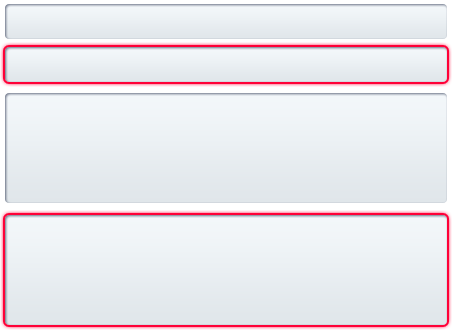
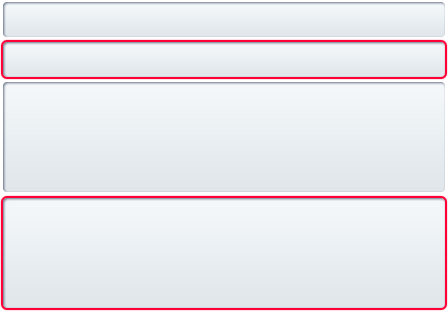
Javascript based contact form validation. Also improved error highlight and focus ring look.

Changed region(s): [[0.0, 0.0, 1.0, 1.0]]

diff --git a/wireload.net/source/js/jquery.validate.min.js b/wireload.net/source/js/jquery.validate.min.js
@@ -1,0 +1,2 @@
+/*! jQuery Validation Plugin - v1.11.1 - 3/22/2013\n* https://github.com/jzaefferer/jquery-validation
+* Copyright (c) 2013 Jörn Zaefferer; Licensed MIT */(function(t){t.extend(t.fn,{validate:function(e){if(!this.length)return e&&e.debug&&window.console&&console.warn("Nothing selected, can't validate, returning nothing."),void 0;var i=t.data(this[0],"validator");return i?i:(this.attr("novalidate","novalidate"),i=new t.validator(e,this[0]),t.data(this[0],"validator",i),i.settings.onsubmit&&(this.validateDelegate(":submit","click",function(e){i.settings.submitHandler&&(i.submitButton=e.target),t(e.target).hasClass("cancel")&&(i.cancelSubmit=!0),void 0!==t(e.target).attr("formnovalidate")&&(i.cancelSubmit=!0)}),this.submit(function(e){function s(){var s;return i.settings.submitHandler?(i.submitButton&&(s=t("<input type='hidden'/>").attr("name",i.submitButton.name).val(t(i.submitButton).val()).appendTo(i.currentForm)),i.settings.submitHandler.call(i,i.currentForm,e),i.submitButton&&s.remove(),!1):!0}return i.settings.debug&&e.preventDefault(),i.cancelSubmit?(i.cancelSubmit=!1,s()):i.form()?i.pendingRequest?(i.formSubmitted=!0,!1):s():(i.focusInvalid(),!1)})),i)},valid:function(){if(t(this[0]).is("form"))return this.validate().form();var e=!0,i=t(this[0].form).validate();return this.each(function(){e=e&&i.element(this)}),e},removeAttrs:function(e){var i={},s=this;return t.each(e.split(/\s/),function(t,e){i[e]=s.attr(e),s.removeAttr(e)}),i},rules:function(e,i){var s=this[0];if(e){var r=t.data(s.form,"validator").settings,n=r.rules,a=t.validator.staticRules(s);switch(e){case"add":t.extend(a,t.validator.normalizeRule(i)),delete a.messages,n[s.name]=a,i.messages&&(r.messages[s.name]=t.extend(r.messages[s.name],i.messages));break;case"remove":if(!i)return delete n[s.name],a;var u={};return t.each(i.split(/\s/),function(t,e){u[e]=a[e],delete a[e]}),u}}var o=t.validator.normalizeRules(t.extend({},t.validator.classRules(s),t.validator.attributeRules(s),t.validator.dataRules(s),t.validator.staticRules(s)),s);if(o.required){var l=o.required;delete o.required,o=t.extend({required:l},o)}return o}}),t.extend(t.expr[":"],{blank:function(e){return!t.trim(""+t(e).val())},filled:function(e){return!!t.trim(""+t(e).val())},unchecked:function(e){return!t(e).prop("checked")}}),t.validator=function(e,i){this.settings=t.extend(!0,{},t.validator.defaults,e),this.currentForm=i,this.init()},t.validator.format=function(e,i){return 1===arguments.length?function(){var i=t.makeArray(arguments);return i.unshift(e),t.validator.format.apply(this,i)}:(arguments.length>2&&i.constructor!==Array&&(i=t.makeArray(arguments).slice(1)),i.constructor!==Array&&(i=[i]),t.each(i,function(t,i){e=e.replace(RegExp("\\{"+t+"\\}","g"),function(){return i})}),e)},t.extend(t.validator,{defaults:{messages:{},groups:{},rules:{},errorClass:"error",validClass:"valid",errorElement:"label",focusInvalid:!0,errorContainer:t([]),errorLabelContainer:t([]),onsubmit:!0,ignore:":hidden",ignoreTitle:!1,onfocusin:function(t){this.lastActive=t,this.settings.focusCleanup&&!this.blockFocusCleanup&&(this.settings.unhighlight&&this.settings.unhighlight.call(this,t,this.settings.errorClass,this.settings.validClass),this.addWrapper(this.errorsFor(t)).hide())},onfocusout:function(t){this.checkable(t)||!(t.name in this.submitted)&&this.optional(t)||this.element(t)},onkeyup:function(t,e){(9!==e.which||""!==this.elementValue(t))&&(t.name in this.submitted||t===this.lastElement)&&this.element(t)},onclick:function(t){t.name in this.submitted?this.element(t):t.parentNode.name in this.submitted&&this.element(t.parentNode)},highlight:function(e,i,s){"radio"===e.type?this.findByName(e.name).addClass(i).removeClass(s):t(e).addClass(i).removeClass(s)},unhighlight:function(e,i,s){"radio"===e.type?this.findByName(e.name).removeClass(i).addClass(s):t(e).removeClass(i).addClass(s)}},setDefaults:function(e){t.extend(t.validator.defaults,e)},messages:{required:"This field is required.",remote:"Please fix this field.",email:"Please enter a valid email address.",url:"Please enter a valid URL.",date:"Please enter a valid date.",dateISO:"Please enter a valid date (ISO).",number:"Please enter a valid number.",digits:"Please enter only digits.",creditcard:"Please enter a valid credit card number.",equalTo:"Please enter the same value again.",maxlength:t.validator.format("Please enter no more than {0} characters."),minlength:t.validator.format("Please enter at least {0} characters."),rangelength:t.validator.format("Please enter a value between {0} and {1} characters long."),range:t.validator.format("Please enter a value between {0} and {1}."),max:t.validator.format("Please enter a value less than or equal to {0}."),min:t.validator.format("Please enter a value greater than or equal to {0}.")},autoCreateRanges:!1,prototype:{init:function(){function e(e){var i=t.data(this[0].form,"validator"),s="on"+e.type.replace(/^validate/,"");i.settings[s]&&i.settings[s].call(i,this[0],e)}this.labelContainer=t(this.settings.errorLabelContainer),this.errorContext=this.labelContainer.length&&this.labelContainer||t(this.currentForm),this.containers=t(this.settings.errorContainer).add(this.settings.errorLabelContainer),this.submitted={},this.valueCache={},this.pendingRequest=0,this.pending={},this.invalid={},this.reset();var i=this.groups={};t.each(this.settings.groups,function(e,s){"string"==typeof s&&(s=s.split(/\s/)),t.each(s,function(t,s){i[s]=e})});var s=this.settings.rules;t.each(s,function(e,i){s[e]=t.validator.normalizeRule(i)}),t(this.currentForm).validateDelegate(":text, [type='password'], [type='file'], select, textarea, [type='number'], [type='search'] ,[type='tel'], [type='url'], [type='email'], [type='datetime'], [type='date'], [type='month'], [type='week'], [type='time'], [type='datetime-local'], [type='range'], [type='color'] ","focusin focusout keyup",e).validateDelegate("[type='radio'], [type='checkbox'], select, option","click",e),this.settings.invalidHandler&&t(this.currentForm).bind("invalid-form.validate",this.settings.invalidHandler)},form:function(){return this.checkForm(),t.extend(this.submitted,this.errorMap),this.invalid=t.extend({},this.errorMap),this.valid()||t(this.currentForm).triggerHandler("invalid-form",[this]),this.showErrors(),this.valid()},checkForm:function(){this.prepareForm();for(var t=0,e=this.currentElements=this.elements();e[t];t++)this.check(e[t]);return this.valid()},element:function(e){e=this.validationTargetFor(this.clean(e)),this.lastElement=e,this.prepareElement(e),this.currentElements=t(e);var i=this.check(e)!==!1;return i?delete this.invalid[e.name]:this.invalid[e.name]=!0,this.numberOfInvalids()||(this.toHide=this.toHide.add(this.containers)),this.showErrors(),i},showErrors:function(e){if(e){t.extend(this.errorMap,e),this.errorList=[];for(var i in e)this.errorList.push({message:e[i],element:this.findByName(i)[0]});this.successList=t.grep(this.successList,function(t){return!(t.name in e)})}this.settings.showErrors?this.settings.showErrors.call(this,this.errorMap,this.errorList):this.defaultShowErrors()},resetForm:function(){t.fn.resetForm&&t(this.currentForm).resetForm(),this.submitted={},this.lastElement=null,this.prepareForm(),this.hideErrors(),this.elements().removeClass(this.settings.errorClass).removeData("previousValue")},numberOfInvalids:function(){return this.objectLength(this.invalid)},objectLength:function(t){var e=0;for(var i in t)e++;return e},hideErrors:function(){this.addWrapper(this.toHide).hide()},valid:function(){return 0===this.size()},size:function(){return this.errorList.length},focusInvalid:function(){if(this.settings.focusInvalid)try{t(this.findLastActive()||this.errorList.length&&this.errorList[0].element||[]).filter(":visible").focus().trigger("focusin")}catch(e){}},findLastActive:function(){var e=this.lastActive;return e&&1===t.grep(this.errorList,function(t){return t.element.name===e.name}).length&&e},elements:function(){var e=this,i={};return t(this.currentForm).find("input, select, textarea").not(":submit, :reset, :image, [disabled]").not(this.settings.ignore).filter(function(){return!this.name&&e.settings.debug&&window.console&&console.error("%o has no name assigned",this),this.name in i||!e.objectLength(t(this).rules())?!1:(i[this.name]=!0,!0)})},clean:function(e){return t(e)[0]},errors:function(){var e=this.settings.errorClass.replace(" ",".");return t(this.settings.errorElement+"."+e,this.errorContext)},reset:function(){this.successList=[],this.errorList=[],this.errorMap={},this.toShow=t([]),this.toHide=t([]),this.currentElements=t([])},prepareForm:function(){this.reset(),this.toHide=this.errors().add(this.containers)},prepareElement:function(t){this.reset(),this.toHide=this.errorsFor(t)},elementValue:function(e){var i=t(e).attr("type"),s=t(e).val();return"radio"===i||"checkbox"===i?t("input[name='"+t(e).attr("name")+"']:checked").val():"string"==typeof s?s.replace(/\r/g,""):s},check:function(e){e=this.validationTargetFor(this.clean(e));var i,s=t(e).rules(),r=!1,n=this.elementValue(e);for(var a in s){var u={method:a,parameters:s[a]};try{if(i=t.validator.methods[a].call(this,n,e,u.parameters),"dependency-mismatch"===i){r=!0;continue}if(r=!1,"pending"===i)return this.toHide=this.toHide.not(this.errorsFor(e)),void 0;if(!i)return this.formatAndAdd(e,u),!1}catch(o){throw this.settings.debug&&window.console&&console.log("Exception occurred when checking element "+e.id+", check the '"+u.method+"' method.",o),o}}return r?void 0:(this.objectLength(s)&&this.successList.push(e),!0)},customDataMessage:function(e,i){return t(e).data("msg-"+i.toLowerCase())||e.attributes&&t(e).attr("data-msg-"+i.toLowerCase())},customMessage:function(t,e){var i=this.settings.messages[t];return i&&(i.constructor===String?i:i[e])},findDefined:function(){for(var t=0;arguments.length>t;t++)if(void 0!==arguments[t])return arguments[t];return void 0},defaultMessage:function(e,i){return this.findDefined(this.customMessage(e.name,i),this.customDataMessage(e,i),!this.settings.ignoreTitle&&e.title||void 0,t.validator.messages[i],"<strong>Warning: No message defined for "+e.name+"</strong>")},formatAndAdd:function(e,i){var s=this.defaultMessage(e,i.method),r=/\$?\{(\d+)\}/g;"function"==typeof s?s=s.call(this,i.parameters,e):r.test(s)&&(s=t.validator.format(s.replace(r,"{$1}"),i.parameters)),this.errorList.push({message:s,element:e}),this.errorMap[e.name]=s,this.submitted[e.name]=s},addWrapper:function(t){return this.settings.wrapper&&(t=t.add(t.parent(this.settings.wrapper))),t},defaultShowErrors:function(){var t,e;for(t=0;this.errorList[t];t++){var i=this.errorList[t];this.settings.highlight&&this.settings.highlight.call(this,i.element,this.settings.errorClass,this.settings.validClass),this.showLabel(i.element,i.message)}if(this.errorList.length&&(this.toShow=this.toShow.add(this.containers)),this.settings.success)for(t=0;this.successList[t];t++)this.showLabel(this.successList[t]);if(this.settings.unhighlight)for(t=0,e=this.validElements();e[t];t++)this.settings.unhighlight.call(this,e[t],this.settings.errorClass,this.settings.validClass);this.toHide=this.toHide.not(this.toShow),this.hideErrors(),this.addWrapper(this.toShow).show()},validElements:function(){return this.currentElements.not(this.invalidElements())},invalidElements:function(){return t(this.errorList).map(function(){return this.element})},showLabel:function(e,i){var s=this.errorsFor(e);s.length?(s.removeClass(this.settings.validClass).addClass(this.settings.errorClass),s.html(i)):(s=t("<"+this.settings.errorElement+">").attr("for",this.idOrName(e)).addClass(this.settings.errorClass).html(i||""),this.settings.wrapper&&(s=s.hide().show().wrap("<"+this.settings.wrapper+"/>").parent()),this.labelContainer.append(s).length||(this.settings.errorPlacement?this.settings.errorPlacement(s,t(e)):s.insertAfter(e))),!i&&this.settings.success&&(s.text(""),"string"==typeof this.settings.success?s.addClass(this.settings.success):this.settings.success(s,e)),this.toShow=this.toShow.add(s)},errorsFor:function(e){var i=this.idOrName(e);return this.errors().filter(function(){return t(this).attr("for")===i})},idOrName:function(t){return this.groups[t.name]||(this.checkable(t)?t.name:t.id||t.name)},validationTargetFor:function(t){return this.checkable(t)&&(t=this.findByName(t.name).not(this.settings.ignore)[0]),t},checkable:function(t){return/radio|checkbox/i.test(t.type)},findByName:function(e){return t(this.currentForm).find("[name='"+e+"']")},getLength:function(e,i){switch(i.nodeName.toLowerCase()){case"select":return t("option:selected",i).length;case"input":if(this.checkable(i))return this.findByName(i.name).filter(":checked").length}return e.length},depend:function(t,e){return this.dependTypes[typeof t]?this.dependTypes[typeof t](t,e):!0},dependTypes:{"boolean":function(t){return t},string:function(e,i){return!!t(e,i.form).length},"function":function(t,e){return t(e)}},optional:function(e){var i=this.elementValue(e);return!t.validator.methods.required.call(this,i,e)&&"dependency-mismatch"},startRequest:function(t){this.pending[t.name]||(this.pendingRequest++,this.pending[t.name]=!0)},stopRequest:function(e,i){this.pendingRequest--,0>this.pendingRequest&&(this.pendingRequest=0),delete this.pending[e.name],i&&0===this.pendingRequest&&this.formSubmitted&&this.form()?(t(this.currentForm).submit(),this.formSubmitted=!1):!i&&0===this.pendingRequest&&this.formSubmitted&&(t(this.currentForm).triggerHandler("invalid-form",[this]),this.formSubmitted=!1)},previousValue:function(e){return t.data(e,"previousValue")||t.data(e,"previousValue",{old:null,valid:!0,message:this.defaultMessage(e,"remote")})}},classRuleSettings:{required:{required:!0},email:{email:!0},url:{url:!0},date:{date:!0},dateISO:{dateISO:!0},number:{number:!0},digits:{digits:!0},creditcard:{creditcard:!0}},addClassRules:function(e,i){e.constructor===String?this.classRuleSettings[e]=i:t.extend(this.classRuleSettings,e)},classRules:function(e){var i={},s=t(e).attr("class");return s&&t.each(s.split(" "),function(){this in t.validator.classRuleSettings&&t.extend(i,t.validator.classRuleSettings[this])}),i},attributeRules:function(e){var i={},s=t(e),r=s[0].getAttribute("type");for(var n in t.validator.methods){var a;"required"===n?(a=s.get(0).getAttribute(n),""===a&&(a=!0),a=!!a):a=s.attr(n),/min|max/.test(n)&&(null===r||/number|range|text/.test(r))&&(a=Number(a)),a?i[n]=a:r===n&&"range"!==r&&(i[n]=!0)}return i.maxlength&&/-1|2147483647|524288/.test(i.maxlength)&&delete i.maxlength,i},dataRules:function(e){var i,s,r={},n=t(e);for(i in t.validator.methods)s=n.data("rule-"+i.toLowerCase()),void 0!==s&&(r[i]=s);return r},staticRules:function(e){var i={},s=t.data(e.form,"validator");return s.settings.rules&&(i=t.validator.normalizeRule(s.settings.rules[e.name])||{}),i},normalizeRules:function(e,i){return t.each(e,function(s,r){if(r===!1)return delete e[s],void 0;if(r.param||r.depends){var n=!0;switch(typeof r.depends){case"string":n=!!t(r.depends,i.form).length;break;case"function":n=r.depends.call(i,i)}n?e[s]=void 0!==r.param?r.param:!0:delete e[s]}}),t.each(e,function(s,r){e[s]=t.isFunction(r)?r(i):r}),t.each(["minlength","maxlength"],function(){e[this]&&(e[this]=Number(e[this]))}),t.each(["rangelength","range"],function(){var i;e[this]&&(t.isArray(e[this])?e[this]=[Number(e[this][0]),Number(e[this][1])]:"string"==typeof e[this]&&(i=e[this].split(/[\s,]+/),e[this]=[Number(i[0]),Number(i[1])]))}),t.validator.autoCreateRanges&&(e.min&&e.max&&(e.range=[e.min,e.max],delete e.min,delete e.max),e.minlength&&e.maxlength&&(e.rangelength=[e.minlength,e.maxlength],delete e.minlength,delete e.maxlength)),e},normalizeRule:function(e){if("string"==typeof e){var i={};t.each(e.split(/\s/),function(){i[this]=!0}),e=i}return e},addMethod:function(e,i,s){t.validator.methods[e]=i,t.validator.messages[e]=void 0!==s?s:t.validator.messages[e],3>i.length&&t.validator.addClassRules(e,t.validator.normalizeRule(e))},methods:{required:function(e,i,s){if(!this.depend(s,i))return"dependency-mismatch";if("select"===i.nodeName.toLowerCase()){var r=t(i).val();return r&&r.length>0}return this.checkable(i)?this.getLength(e,i)>0:t.trim(e).length>0},email:function(t,e){return this.optional(e)||/^((([a-z]|\d|[!#\$%&'\*\+\-\/=\?\^_`{\|}~]|[\u00A0-\uD7FF\uF900-\uFDCF\uFDF0-\uFFEF])+(\.([a-z]|\d|[!#\$%&'\*\+\-\/=\?\^_`{\|}~]|[\u00A0-\uD7FF\uF900-\uFDCF\uFDF0-\uFFEF])+)*)|((\x22)((((\x20|\x09)*(\x0d\x0a))?(\x20|\x09)+)?(([\x01-\x08\x0b\x0c\x0e-\x1f\x7f]|\x21|[\x23-\x5b]|[\x5d-\x7e]|[\u00A0-\uD7FF\uF900-\uFDCF\uFDF0-\uFFEF])|(\\([\x01-\x09\x0b\x0c\x0d-\x7f]|[\u00A0-\uD7FF\uF900-\uFDCF\uFDF0-\uFFEF]))))*(((\x20|\x09)*(\x0d\x0a))?(\x20|\x09)+)?(\x22)))@((([a-z]|\d|[\u00A0-\uD7FF\uF900-\uFDCF\uFDF0-\uFFEF])|(([a-z]|\d|[\u00A0-\uD7FF\uF900-\uFDCF\uFDF0-\uFFEF])([a-z]|\d|-|\.|_|~|[\u00A0-\uD7FF\uF900-\uFDCF\uFDF0-\uFFEF])*([a-z]|\d|[\u00A0-\uD7FF\uF900-\uFDCF\uFDF0-\uFFEF])))\.)+(([a-z]|[\u00A0-\uD7FF\uF900-\uFDCF\uFDF0-\uFFEF])|(([a-z]|[\u00A0-\uD7FF\uF900-\uFDCF\uFDF0-\uFFEF])([a-z]|\d|-|\.|_|~|[\u00A0-\uD7FF\uF900-\uFDCF\uFDF0-\uFFEF])*([a-z]|[\u00A0-\uD7FF\uF900-\uFDCF\uFDF0-\uFFEF])))$/i.test(t)},url:function(t,e){return this.optional(e)||/^(https?|s?ftp):\/\/(((([a-z]|\d|-|\.|_|~|[\u00A0-\uD7FF\uF900-\uFDCF\uFDF0-\uFFEF])|(%[\da-f]{2})|[!\$&'\(\)\*\+,;=]|:)*@)?(((\d|[1-9]\d|1\d\d|2[0-4]\d|25[0-5])\.(\d|[1-9]\d|1\d\d|2[0-4]\d|25[0-5])\.(\d|[1-9]\d|1\d\d|2[0-4]\d|25[0-5])\.(\d|[1-9]\d|1\d\d|2[0-4]\d|25[0-5]))|((([a-z]|\d|[\u00A0-\uD7FF\uF900-\uFDCF\uFDF0-\uFFEF])|(([a-z]|\d|[\u00A0-\uD7FF\uF900-\uFDCF\uFDF0-\uFFEF])([a-z]|\d|-|\.|_|~|[\u00A0-\uD7FF\uF900-\uFDCF\uFDF0-\uFFEF])*([a-z]|\d|[\u00A0-\uD7FF\uF900-\uFDCF\uFDF0-\uFFEF])))\.)+(([a-z]|[\u00A0-\uD7FF\uF900-\uFDCF\uFDF0-\uFFEF])|(([a-z]|[\u00A0-\uD7FF\uF900-\uFDCF\uFDF0-\uFFEF])([a-z]|\d|-|\.|_|~|[\u00A0-\uD7FF\uF900-\uFDCF\uFDF0-\uFFEF])*([a-z]|[\u00A0-\uD7FF\uF900-\uFDCF\uFDF0-\uFFEF])))\.?)(:\d*)?)(\/((([a-z]|\d|-|\.|_|~|[\u00A0-\uD7FF\uF900-\uFDCF\uFDF0-\uFFEF])|(%[\da-f]{2})|[!\$&'\(\)\*\+,;=]|:|@)+(\/(([a-z]|\d|-|\.|_|~|[\u00A0-\uD7FF\uF900-\uFDCF\uFDF0-\uFFEF])|(%[\da-f]{2})|[!\$&'\(\)\*\+,;=]|:|@)*)*)?)?(\?((([a-z]|\d|-|\.|_|~|[\u00A0-\uD7FF\uF900-\uFDCF\uFDF0-\uFFEF])|(%[\da-f]{2})|[!\$&'\(\)\*\+,;=]|:|@)|[\uE000-\uF8FF]|\/|\?)*)?(#((([a-z]|\d|-|\.|_|~|[\u00A0-\uD7FF\uF900-\uFDCF\uFDF0-\uFFEF])|(%[\da-f]{2})|[!\$&'\(\)\*\+,;=]|:|@)|\/|\?)*)?$/i.test(t)},date:function(t,e){return this.optional(e)||!/Invalid|NaN/.test(""+new Date(t))},dateISO:function(t,e){return this.optional(e)||/^\d{4}[\/\-]\d{1,2}[\/\-]\d{1,2}$/.test(t)},number:function(t,e){return this.optional(e)||/^-?(?:\d+|\d{1,3}(?:,\d{3})+)?(?:\.\d+)?$/.test(t)},digits:function(t,e){return this.optional(e)||/^\d+$/.test(t)},creditcard:function(t,e){if(this.optional(e))return"dependency-mismatch";if(/[^0-9 \-]+/.test(t))return!1;var i=0,s=0,r=!1;t=t.replace(/\D/g,"");for(var n=t.length-1;n>=0;n--){var a=t.charAt(n);s=parseInt(a,10),r&&(s*=2)>9&&(s-=9),i+=s,r=!r}return 0===i%10},minlength:function(e,i,s){var r=t.isArray(e)?e.length:this.getLength(t.trim(e),i);return this.optional(i)||r>=s},maxlength:function(e,i,s){var r=t.isArray(e)?e.length:this.getLength(t.trim(e),i);return this.optional(i)||s>=r},rangelength:function(e,i,s){var r=t.isArray(e)?e.length:this.getLength(t.trim(e),i);return this.optional(i)||r>=s[0]&&s[1]>=r},min:function(t,e,i){return this.optional(e)||t>=i},max:function(t,e,i){return this.optional(e)||i>=t},range:function(t,e,i){return this.optional(e)||t>=i[0]&&i[1]>=t},equalTo:function(e,i,s){var r=t(s);return this.settings.onfocusout&&r.unbind(".validate-equalTo").bind("blur.validate-equalTo",function(){t(i).valid()}),e===r.val()},remote:function(e,i,s){if(this.optional(i))return"dependency-mismatch";var r=this.previousValue(i);if(this.settings.messages[i.name]||(this.settings.messages[i.name]={}),r.originalMessage=this.settings.messages[i.name].remote,this.settings.messages[i.name].remote=r.message,s="string"==typeof s&&{url:s}||s,r.old===e)return r.valid;r.old=e;var n=this;this.startRequest(i);var a={};return a[i.name]=e,t.ajax(t.extend(!0,{url:s,mode:"abort",port:"validate"+i.name,dataType:"json",data:a,success:function(s){n.settings.messages[i.name].remote=r.originalMessage;var a=s===!0||"true"===s;if(a){var u=n.formSubmitted;n.prepareElement(i),n.formSubmitted=u,n.successList.push(i),delete n.invalid[i.name],n.showErrors()}else{var o={},l=s||n.defaultMessage(i,"remote");o[i.name]=r.message=t.isFunction(l)?l(e):l,n.invalid[i.name]=!0,n.showErrors(o)}r.valid=a,n.stopRequest(i,a)}},s)),"pending"}}}),t.format=t.validator.format})(jQuery),function(t){var e={};if(t.ajaxPrefilter)t.ajaxPrefilter(function(t,i,s){var r=t.port;"abort"===t.mode&&(e[r]&&e[r].abort(),e[r]=s)});else{var i=t.ajax;t.ajax=function(s){var r=("mode"in s?s:t.ajaxSettings).mode,n=("port"in s?s:t.ajaxSettings).port;return"abort"===r?(e[n]&&e[n].abort(),e[n]=i.apply(this,arguments),e[n]):i.apply(this,arguments)}}}(jQuery),function(t){t.extend(t.fn,{validateDelegate:function(e,i,s){return this.bind(i,function(i){var r=t(i.target);return r.is(e)?s.apply(r,arguments):void 0})}})}(jQuery);

diff --git a/wireload.net/source/stylesheets/main.scss b/wireload.net/source/stylesheets/main.scss
@@ -968,130 +968,146 @@ body.folder-products-quiet {
 	background: url(../images/send_form.png) no-repeat;
 	margin-top: 25px;
 	position: relative;
-}
-#contact-form div {
-	width: 452px;
-	float: left;
-	margin: 12px 0px 0px 37px;
-}
-#contact-form label {
-	font-size: 13px;
-	color: #39425c;
-	font-weight: bold;
-	margin-left: 10px;
-}
-#contact-form .inp {
-	width: 452px;
-	height: 45px;
-	background: url(../images/inpts.png) no-repeat left 2px;
-	float: left;
-	margin-top: 0px;
-}
-#contact-form .inp.error {
-	background-position: 0px -41px;
-}
-#contact-form .inp input {
-	width: 430px;
-	margin: 14px 0px 0px 12px;
-	border: 0px;
-	background: none;
-	font: 15px Arial, Helvetica, sans-serif;
-}
-#contact-form .txt {
-	width: 452px;
-	height: 120px;
-	background: url(../images/inpts.png) no-repeat left -90px;
-	float: left;
-	margin-top: 5px;
-	padding: 0px;
-}
-#contact-form .txt.error {
-	background-position: left bottom;
-}
-#contact-form .txt textarea {
-	width: 430px;
-	height: 100px;
-	border: 0px;
-	background: none;
-	margin: 9px 0px 0px 12px;
-	padding: 0px;
-	font: 15px Arial, Helvetica, sans-serif;
-}
+    font-size: 15px;
 
-#contact-form
-{
-  #send-but {
-  	width: 192px;
-  	height: 42px;
-  	position: absolute;
-  	bottom: 4px;
-  	left: 166px;
-  	margin: 0px;
-  	overflow: hidden;
-  	cursor: pointer;
+    > div {
+    	width: 452px;
+    	float: left;
+    	margin: 12px 0px 0px 37px;
+        position: relative;
+    }
 
-    #but {
-    	width: 192px;
-    	height: 42px;
-    	position: absolute;
-    	left: 0px;
-    	top: 0px;
-    	background: url(../images/send_bg.png);
-
-        button {
-            width: 100%;
-            height: 100%;
-            opacity: 0;
-        }
-
-        i {
-            width: 84px;
-            height: 11px;
+    label {
+    	font-size: 13px;
+    	color: #39425c;
+    	font-weight: bold;
+    	margin-left: 10px;
+        
+        &.error {
+            text-shadow: none;
+            font-weight: normal;
+            color: #b94a48;
             position: absolute;
-            left: 54px;
-            bottom: 14px;
-            background: url(../images/send_but.png) no-repeat left top;
-        }
-        em {
-            width: 138px;
-            height: 11px;
-            position: absolute;
-            left: 27px;
-            bottom: 14px;
-            background: url(../images/thank_you.png) no-repeat left top;
-            display: none;
+            right: 5px;
+            bottom: -18px;
+            line-height: 16px;
         }
     }
+    
+    .inp {
+    	width: 452px;
+    	height: 45px;
+    	float: left;
+    	margin-top: 0px;
+        
+        
+        input {
+        	width: 412px;
+        	padding: 15px 28px 13px 12px;
+        	border: 0px;
+        	background: url(../images/inpts.png) no-repeat left 2px;
 
-    :hover #but i {
-    	background-position: left -11px;
+            &.error {
+                background-position: 0 -39px;
+            }
+        }
     }
 
-    #border {
-    	width: 184px;
-    	height: 46px;
-    	position: absolute;
-    	left: 4px;
-    	top: 0px;
-    	background: url(../images/send_sh.png) no-repeat left top;
-    	z-index: 1;
+    .txt {
+    	width: 452px;
+    	height: 120px;
+    	float: left;
+    	margin-top: 5px;
+    	padding: 0px;
+
+        textarea {
+        	width: 430px;
+        	height: 100px;
+        	border: 0px;
+        	background: none;
+        	padding: 8px 6px 7px 12px;
+        	background: url(../images/inpts.png) no-repeat left -80px;
+
+            &.error {
+                background-position: left bottom;
+            }
+        }
+
     }
 
-    input {
-      visibility: hidden;
+
+    #send-but {
+      	width: 192px;
+      	height: 42px;
+      	position: absolute;
+      	bottom: 4px;
+      	left: 166px;
+      	margin: 0px;
+      	overflow: hidden;
+      	cursor: pointer;
+
+        #but {
+        	width: 192px;
+        	height: 42px;
+        	position: absolute;
+        	left: 0px;
+        	top: 0px;
+        	background: url(../images/send_bg.png);
+
+            button {
+                width: 100%;
+                height: 100%;
+                opacity: 0;
+            }
+
+            i {
+                width: 84px;
+                height: 11px;
+                position: absolute;
+                left: 54px;
+                bottom: 14px;
+                background: url(../images/send_but.png) no-repeat left top;
+            }
+            em {
+                width: 138px;
+                height: 11px;
+                position: absolute;
+                left: 27px;
+                bottom: 14px;
+                background: url(../images/thank_you.png) no-repeat left top;
+                display: none;
+            }
+        }
+
+        :hover #but i {
+        	background-position: left -11px;
+        }
+
+        #border {
+        	width: 184px;
+        	height: 46px;
+        	position: absolute;
+        	left: 4px;
+        	top: 0px;
+        	background: url(../images/send_sh.png) no-repeat left top;
+        	z-index: 1;
+        }
+
+        input {
+          visibility: hidden;
+        }
     }
-  }
 
-  .sent {
-  	cursor: default;
+    .sent {
+      	cursor: default;
 
-  	#but i {
-  	  display: none !important;
-  	}
-  	#but em {
-  	  display: inline !important;
-  	}
-  }
+      	#but i {
+      	  display: none !important;
+      	}
+      	#but em {
+      	  display: inline !important;
+      	}
+    }
 }
 
 .wpcf7-validation-errors {
